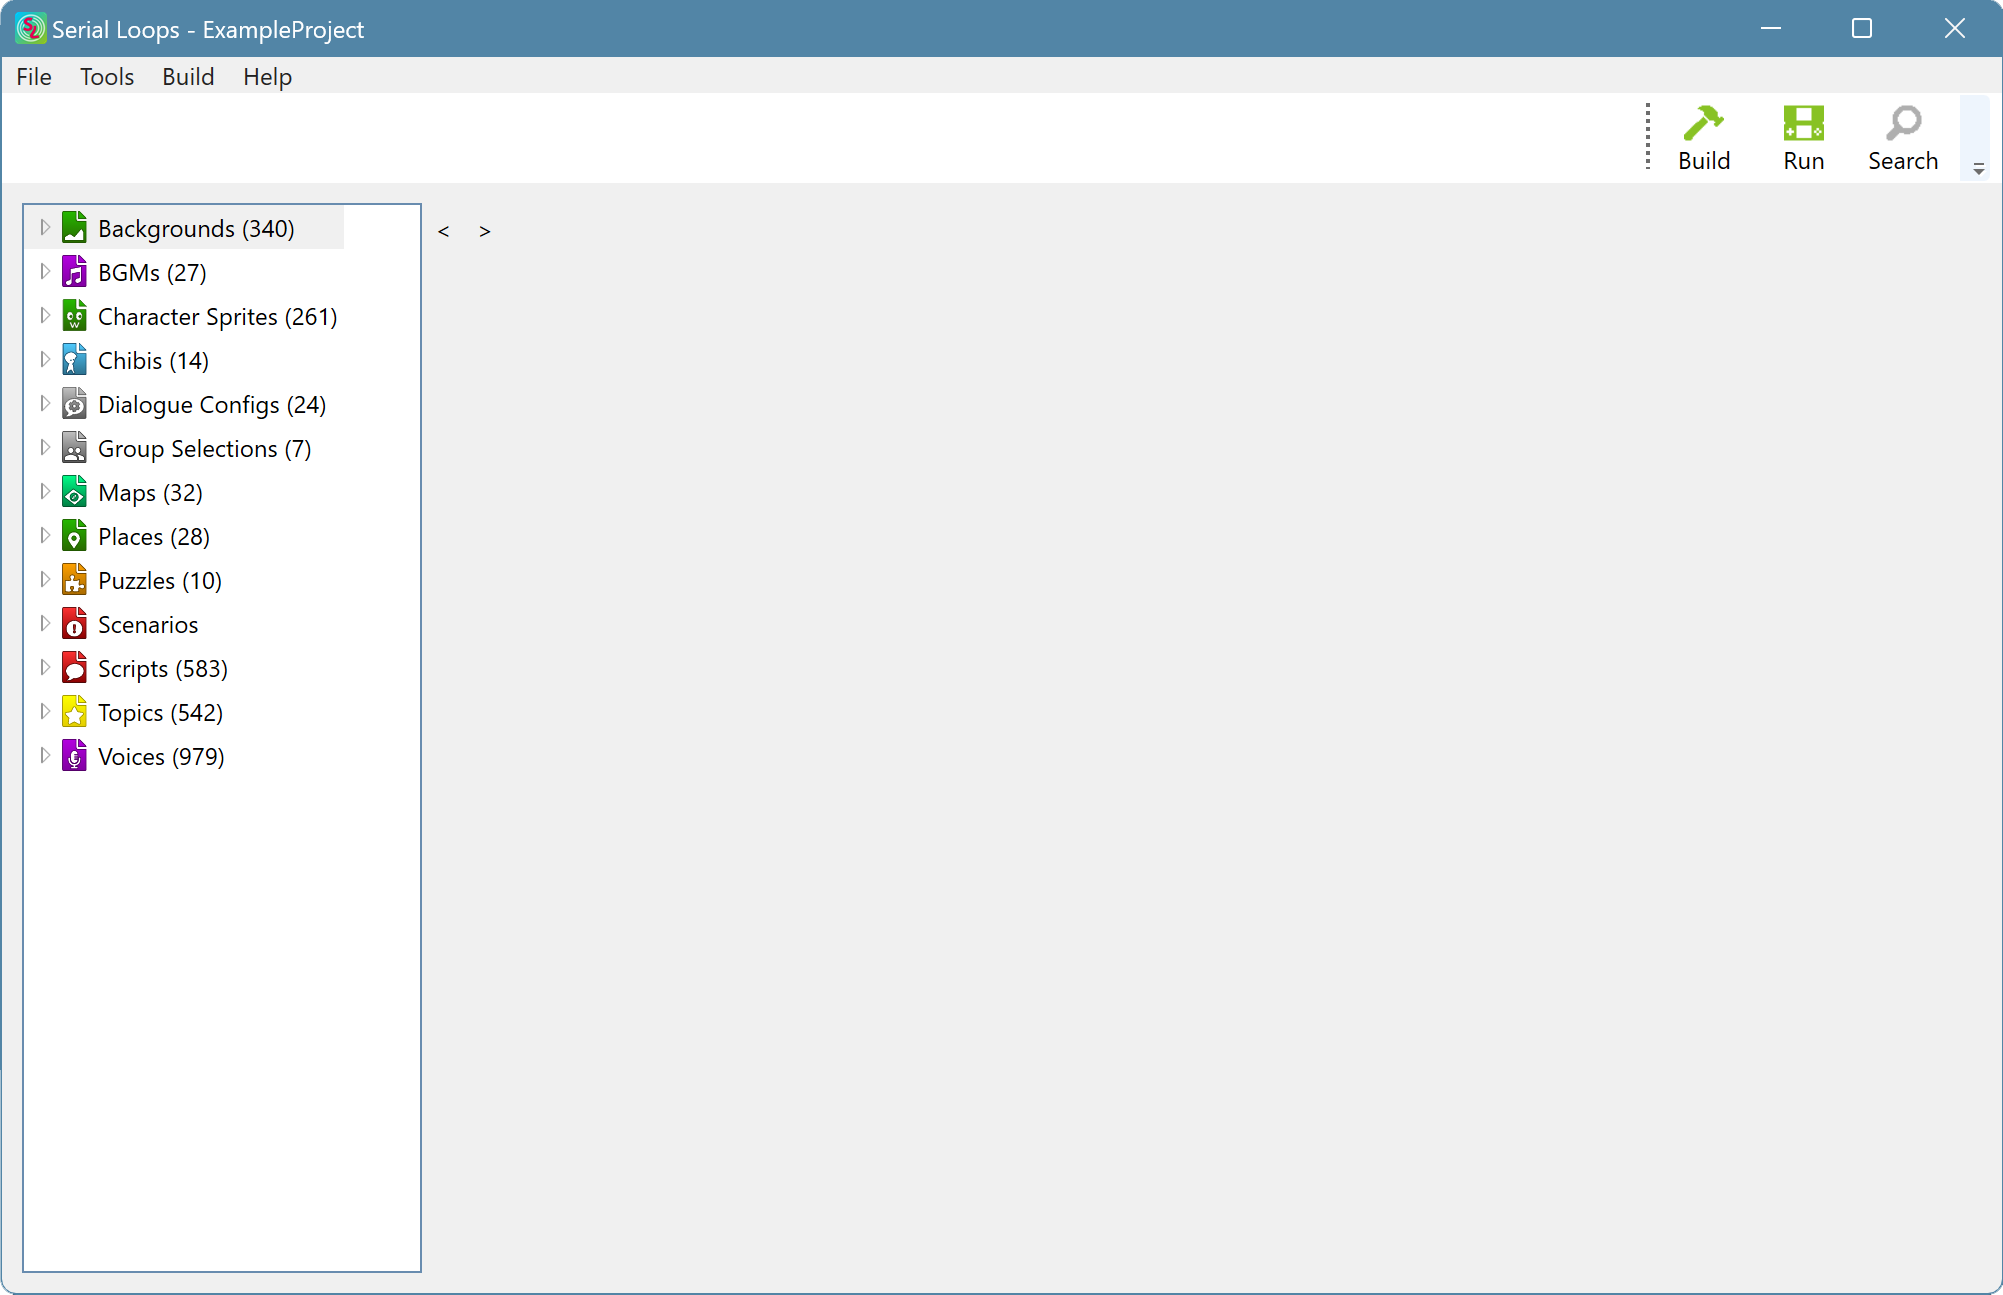
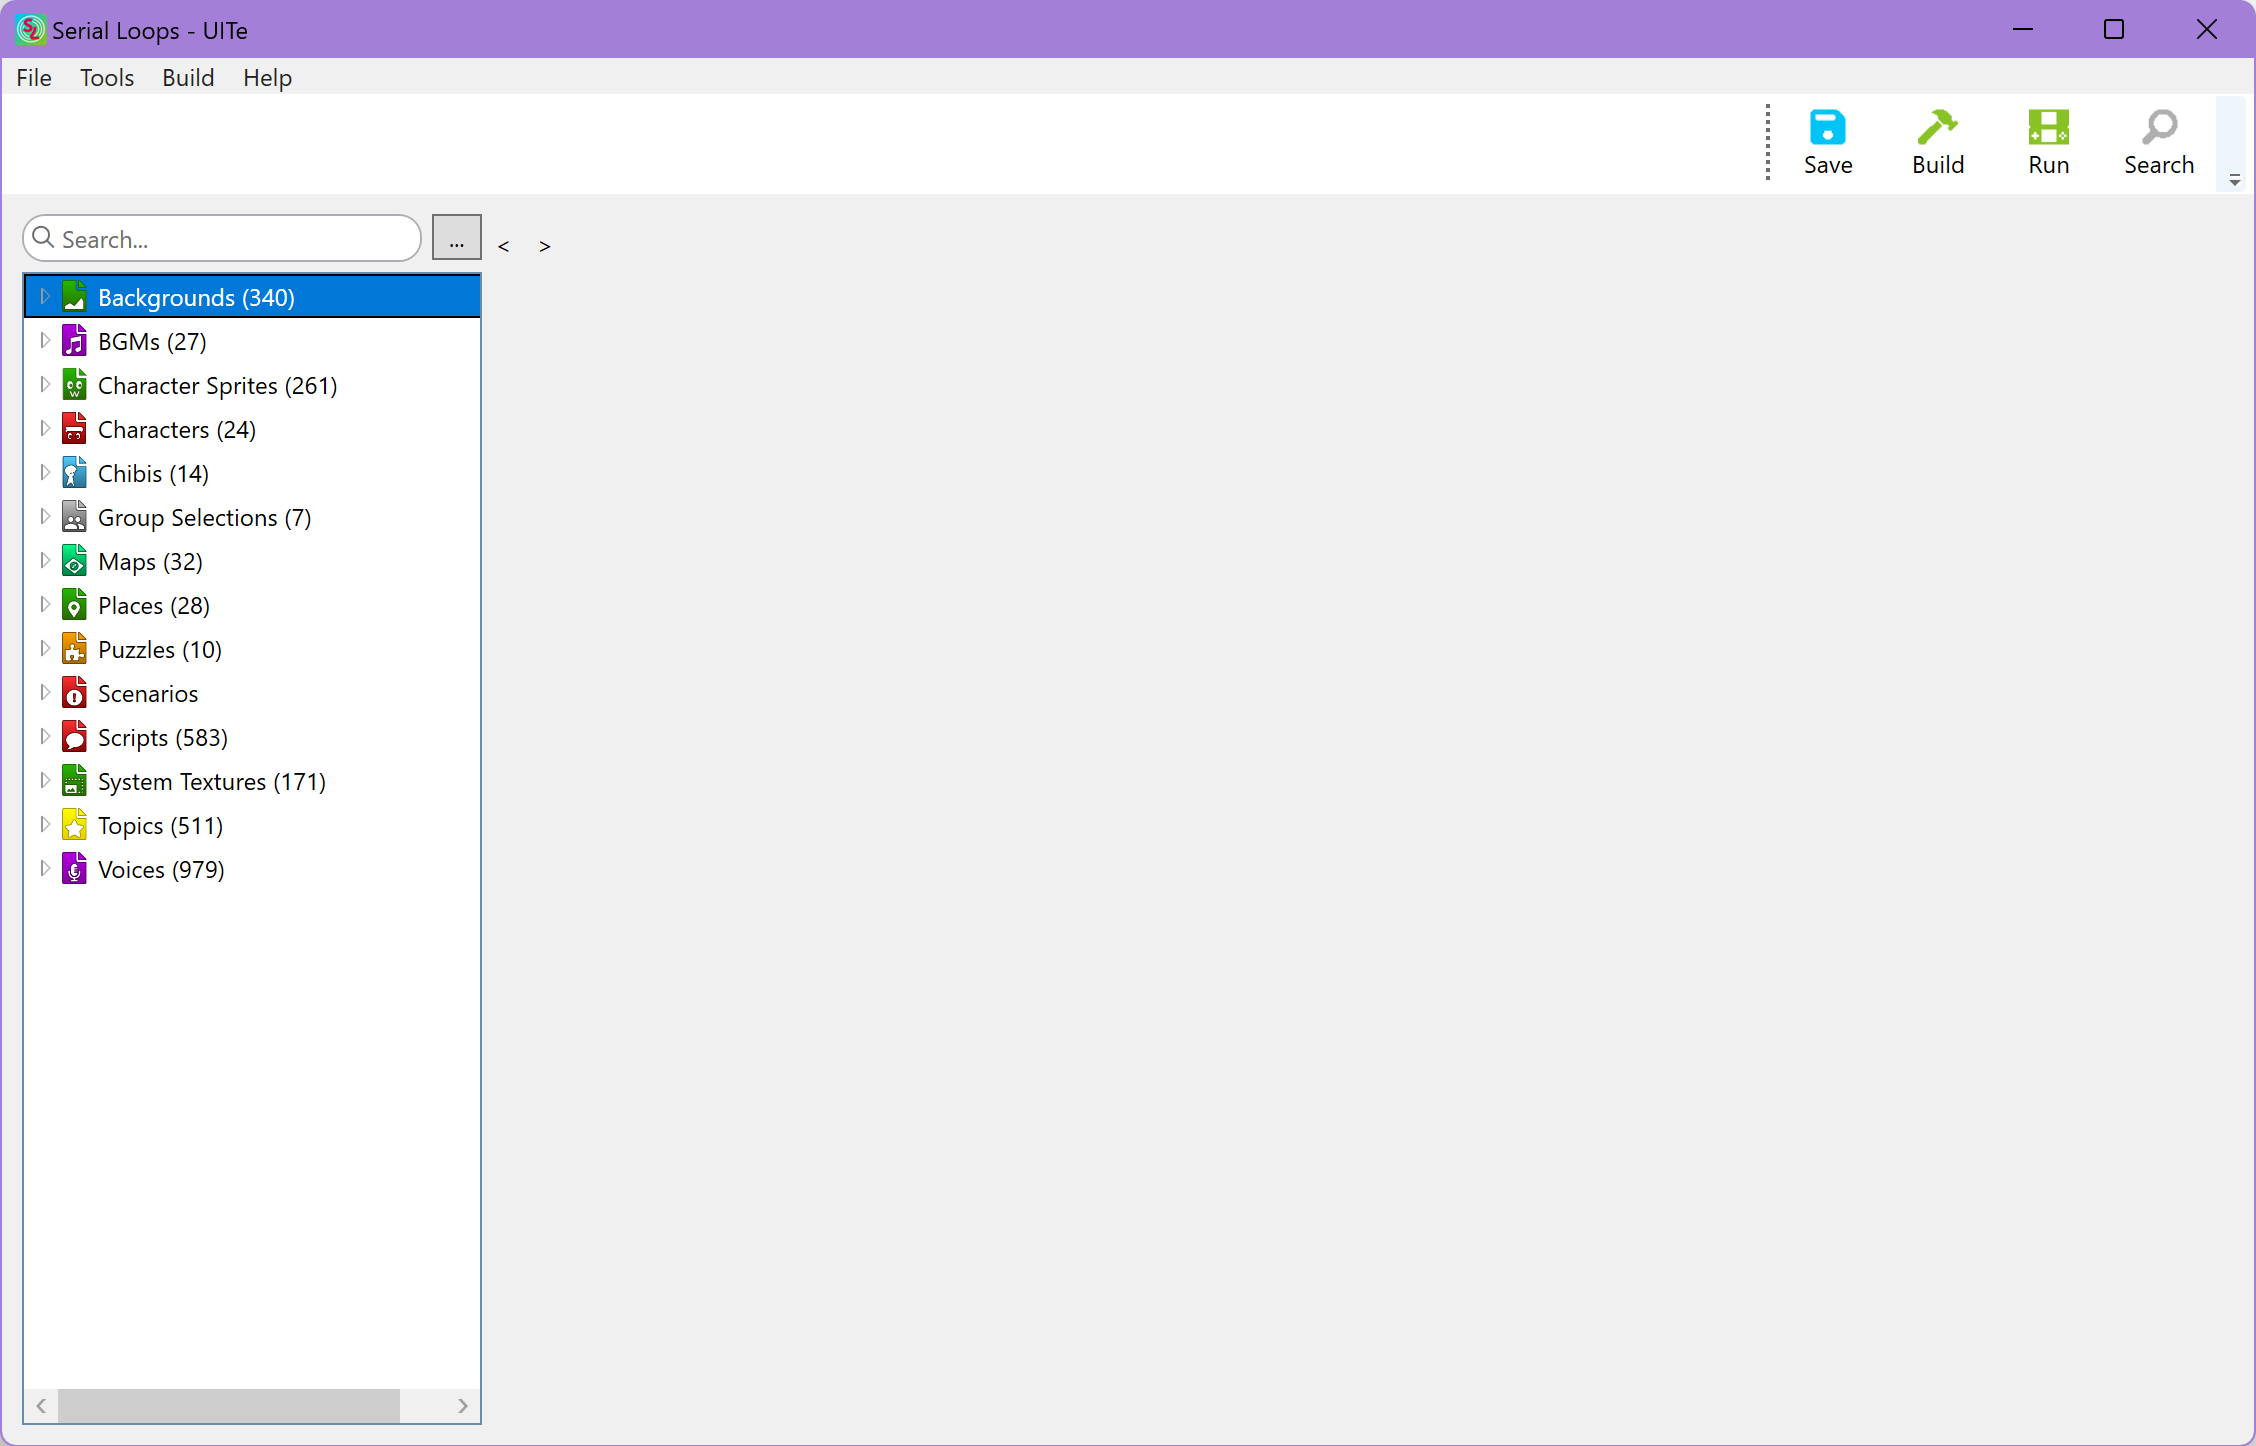
Update basic workflow docs

Changed region(s): [[0.0, 0.0, 1.0, 1.0]]

diff --git a/content/chokuretsu/serial-loops/docs/1.introduction/3.project-workflow.md b/content/chokuretsu/serial-loops/docs/1.introduction/3.project-workflow.md
@@ -10,12 +10,10 @@ Once you've created your project, you'll be presented with the following screen:
 
 ![Project workflow](/images/chokuretsu/serial-loops/project-workflow.png)
 
-On the left is the **items panel**. It contains an organized tree of all the items available for editing in the game. On the right is the
-**editors panel**. This is where the editors for the various items will appear when you open them.
+On the left is the **items panel**. It contains an organized tree of all the items available for editing in the game. Above the items panel is the **quick search bar**, letting you quickly search for items by name. To the right of the items panel is the **editors panel**. This is where the editors for the various items will appear when you open them.
 
 ## Finding Items to Edit
-While navigating the items panel is perfectly adequate for browsing, Chokuretsu has a _lot_ of items. If you know the _name_ of the item
-you're searching for, it's often faster to use the _Search_ function (Ctrl/Command-F) to find an item.
+While navigating the items panel and filtering by name through quick search is perfectly adequate for browsing, Chokuretsu has a _lot_ of items. To carry out a more advanced search using filters, you can use the _Search_ function (Ctrl/Command-F) to find an item, filtering by type and searching more advanced metadata (albeit more complex queries may take some time to process).
 
 ![Item search](/images/chokuretsu/serial-loops/item-search.png)
 
